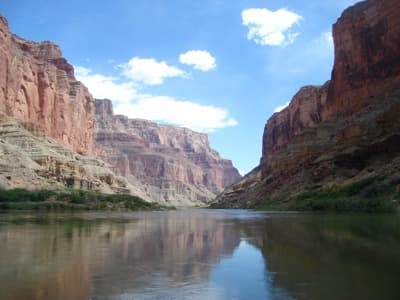
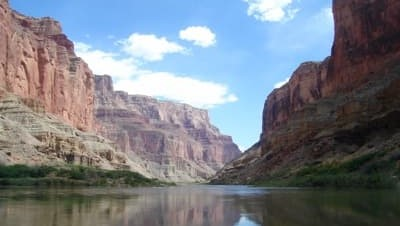
order up

diff --git a/wwr/styles/rafting.css b/wwr/styles/rafting.css
@@ -7,6 +7,21 @@
     --text-font: "DM Serif Text";
     --page-size: 1100px;
 }
+.bangers-regular {
+    font-family: "Bangers", system-ui;
+    font-weight: 400;
+    font-style: normal;
+  }
+.dm-serif-text-regular {
+    font-family: "DM Serif Text", serif;
+    font-weight: 400;
+    font-style: normal;
+  }
+.dm-serif-text-regular-italic {
+    font-family: "DM Serif Text", serif;
+    font-weight: 400;
+    font-style: italic;
+  }
 h1 {
     font-size: 2rem;
     font-weight: bold;
@@ -16,7 +31,7 @@ h1 {
     font-family: var(--heading-font);
     left: 0px;
     right: 0px;
-    top: 100px;
+    top: 50px;
     text-align: center;
     position: absolute;
 }
@@ -34,21 +49,40 @@ p {
     font-family: var(--heading-font);
     text-align: left;
 }
-.container {
+.body-container {
     max-width: var(--page-size);
     margin: 0 auto;
 }
-.hero-img {
-    display: block;
-    width: 100%;
-    height: auto;
+header {
+    display: grid;
+    grid-template-columns: 6fr 8fr 1fr;
+    align-items: center;
+    text-align: center;
+}
+.header-logo {
+    margin: auto;
+}
+.header-navigation {
+    display: flex;
+}
+.header-navigation a {
+	color: var(--primary-color);
+    padding: 10px 30px 10px 30px;
+	text-decoration: none;
+    border: 0.1px solid var(--primary-color);
+    width: 100px;
 }
 div {
     position: relative;
 }
+.hero-img {
+    display: block;
+    width: 100%;
+    height: 400px;
+}
 article {
     position: absolute;
-    top: 270px;
+    top: 160px;
     background-color: var(--secondary-color);
     opacity: 0.8;
     width: 900px;
@@ -60,69 +94,29 @@ article {
     margin-left: 10px;
     float: right;
 }
-.bangers-regular {
-    font-family: "Bangers", system-ui;
-    font-weight: 400;
-    font-style: normal;
-  }
-.dm-serif-text-regular {
-    font-family: "DM Serif Text", serif;
-    font-weight: 400;
-    font-style: normal;
-  }
-.dm-serif-text-regular-italic {
-    font-family: "DM Serif Text", serif;
-    font-weight: 400;
-    font-style: italic;
-  }
-header {
-    margin: 1rem auto;
-    display: grid;
-    grid-template-columns: 6fr 8fr 1fr;
-    align-items: center;
-    border-bottom: 1px solid var(--accent2-color);
-    max-width: 1100px;
-}
-.logo {
-    align-items: center;
-    margin-left: auto;
-    margin-right: auto;
-}
-.navigation {
-    display: flex;
-    list-style: none;
-}
-.navigation a {
-	display: block;
-	color: navy;
-    padding: 10px 30px 10px 30px;
-	text-decoration: none;
-    border: 0.1px solid var(--primary-color);
-}
 .history-layout {
     display: grid;
-    grid-template-columns: 2fr 1fr 2fr;
+    grid-template-columns: 3fr 2fr 3fr;
     grid-template-rows: 1fr 2fr;
     align-items: center;
     gap: 10px;
-    margin-bottom: -100px;
   }
 .item1 {
-    grid-column: 1;
-    grid-row: 1/5;
-} 
-.item2 {
     grid-column: 1/4;
     grid-row: 1;
 }
-.item3 {
+.item2 {
     grid-column: 2;
-    grid-row: 1/5;
-    width: 200px;
+    grid-row: 2;
+    width: 250px;
 }
+.item3 {
+    grid-column: 1;
+    grid-row: 2;
+} 
 .item4 {
     grid-column: 3;
-    grid-row: 1/5;
+    grid-row: 2;
 } 
 .adventure-layout {
     display: flex;
@@ -133,7 +127,7 @@ header {
     width: 190px;
     height: 130px;
     object-fit: cover;
-    margin: -10px -20px 0px -20px;
+    margin: 0 -20px 0 -20px;
 }
 .adventure-layout figcaption {
     color: var(--primary-color);
@@ -146,9 +140,8 @@ footer p {
     left: 0;
     right: 0;
 }
-footer nav {
-    float: right;
-}
 footer a {
     text-decoration: none;
+    float: right;
+    margin-left: 6px;
 }

diff --git a/wwr/about.html b/wwr/about.html
@@ -11,10 +11,10 @@
     <link rel="preconnect" href="https://fonts.gstatic.com" crossorigin>
     <link href="https://fonts.googleapis.com/css2?family=Bangers&family=DM+Serif+Text:ital@0;1&display=swap" rel="stylesheet">
 </head>
-<body class="container">
+<body class="body-container">
     <header>
-        <img class="logo" src="images/logo.jpg" alt="Logo">
-        <nav class="navigation">
+        <img class="header-logo" src="images/logo.jpg" alt="Logo">
+        <nav class="header-navigation">
                 <a href="index.html">Home</a>
                 <a href="about.html">About Us</a>
                 <a href="trips.html">Trips</a>
@@ -22,7 +22,7 @@
         </nav>
     </header> 
     <main>
-        <div class="hero">
+        <div>
             <img class="hero-img" src="images/hero.jpg" alt="Hero">
             <h1>Whitewater Rafting</h1>
             <article>
@@ -31,9 +31,9 @@
             </article>
         </div>
         <section class="history-layout">
-            <p class="item1">brief history of the company. Lorem ipsum dolor sit, amet consectetur adipisicing elit. Dolorum, asperiores. Officia fugit sit repudiandae quisquam error alias corporis libero? Doloremque quidem atque expedita repellendus totam ex dolor aliquid voluptatum blanditiis?</p>
-                <h2 class="item2">History</h2>
-                <img class="item3" src="images/history.jpg" alt="History Image">
+            <h2 class="item1">History</h2>
+            <img class="item2" src="images/history.jpg" alt="History Image">
+            <p class="item3">brief history of the company. Lorem ipsum dolor sit, amet consectetur adipisicing elit. Dolorum, asperiores. Officia fugit sit repudiandae quisquam error alias corporis libero? Doloremque quidem atque expedita repellendus totam ex dolor aliquid voluptatum blanditiis?</p>
             <p class="item4">brief history of the company. Lorem ipsum dolor sit, amet consectetur adipisicing elit. Dolorum, asperiores. Officia fugit sit repudiandae quisquam error alias corporis libero? Doloremque quidem atque expedita repellendus totam ex dolor aliquid voluptatum blanditiis?</p>
         </section>
         <section>
